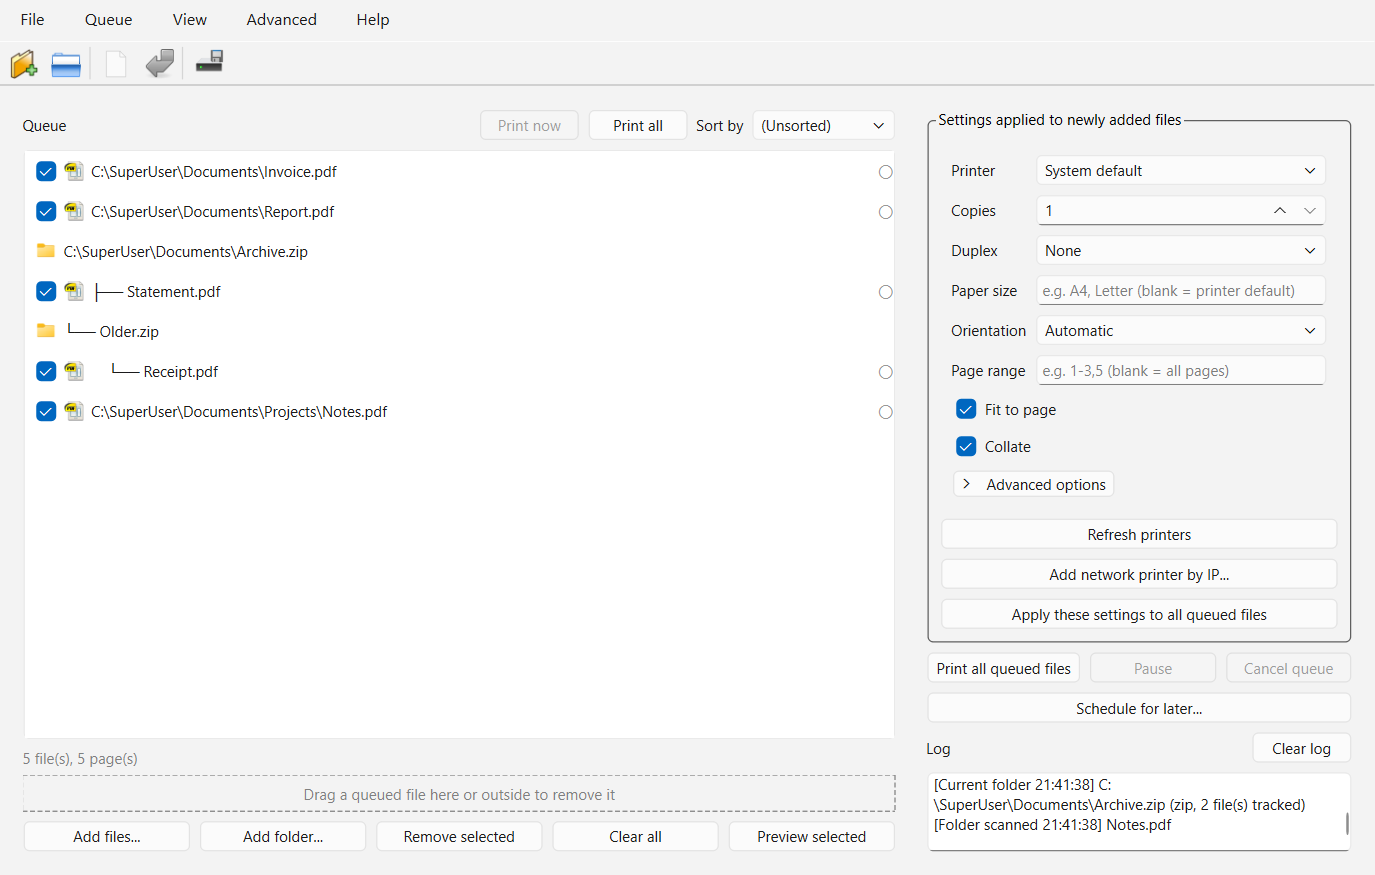
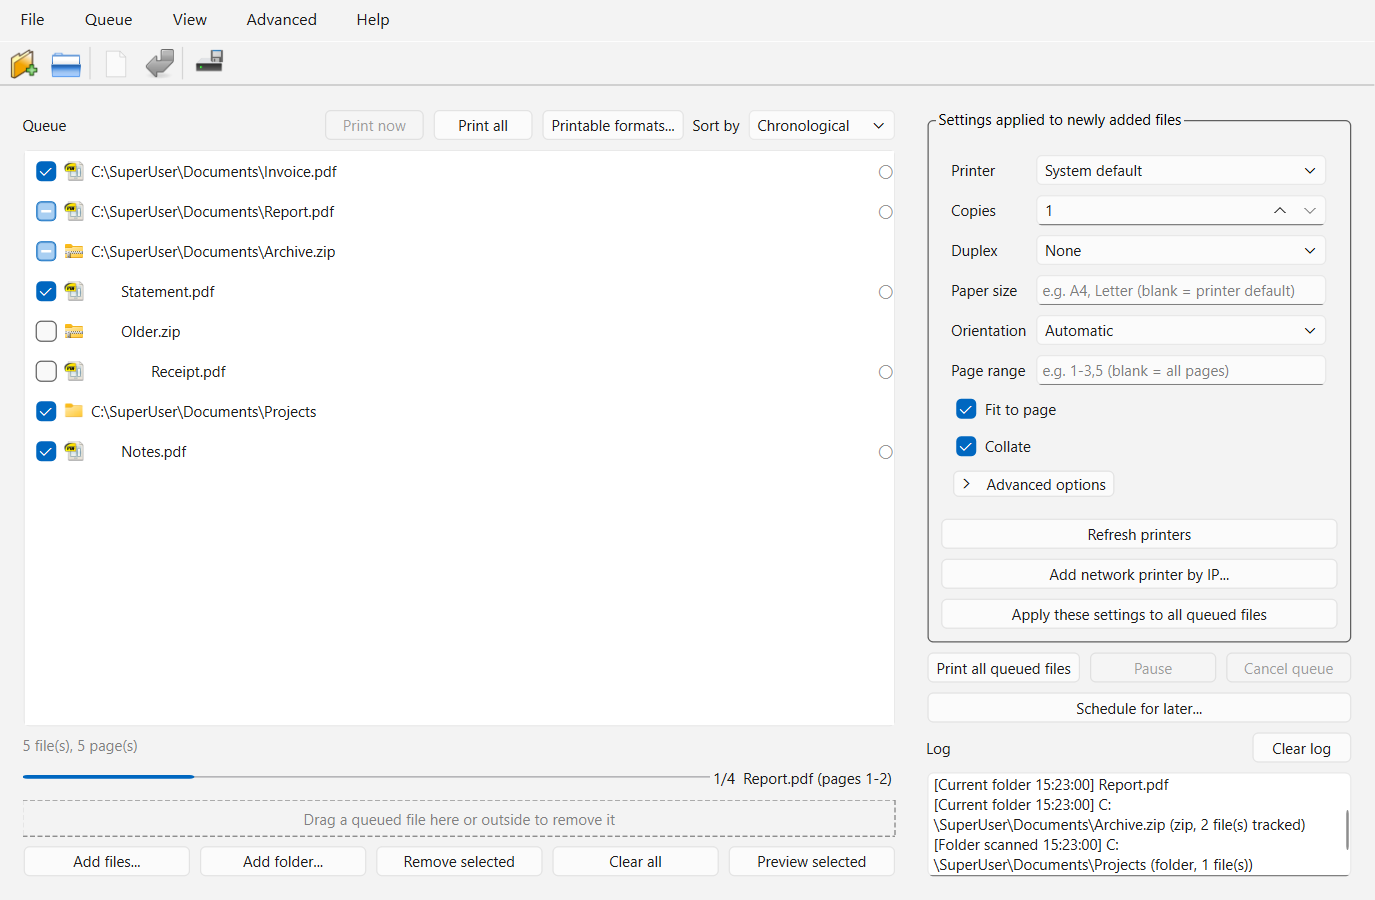
printtool 5

diff --git a/printtool/gui/app.py b/printtool/gui/app.py
@@ -26,6 +26,7 @@ from PySide6.QtWidgets import (
     QMenu,
     QMessageBox,
     QPlainTextEdit,
+    QProgressBar,
     QPushButton,
     QSpinBox,
     QStyle,
@@ -54,6 +55,12 @@ from .resources import asset_path
 from .widgets import SettingsWidget
 
 _ICON_PROVIDER = QFileIconProvider()
+_INDENT = "  "
+GROUP_HEADER_ROLE = Qt.UserRole + 10
+
+
+def _depth(text: str) -> int:
+    return (len(text) - len(text.lstrip(_INDENT[0]))) // len(_INDENT)
 
 
 class PrintWorker(QThread):
@@ -248,7 +255,7 @@ class MainWindow(QMainWindow):
         stats_row.addWidget(self.advanced_stats_label)
 
         self.sort_combo = QComboBox()
-        self.sort_combo.addItem("(Unsorted)", None)
+        self.sort_combo.addItem("Chronological", None)
         self.sort_combo.addItem("Name", "name")
         self.sort_combo.addItem("Size", "size")
         self.sort_combo.addItem("Pages", "pages")
@@ -267,6 +274,9 @@ class MainWindow(QMainWindow):
         queue_header.addStretch()
         queue_header.addWidget(self.print_now_btn)
         queue_header.addWidget(self.print_all_btn)
+        formats_btn = QPushButton("Printable formats...")
+        formats_btn.clicked.connect(self._edit_file_types)
+        queue_header.addWidget(formats_btn)
         queue_header.addWidget(QLabel("Sort by"))
         queue_header.addWidget(self.sort_combo)
 
@@ -274,6 +284,10 @@ class MainWindow(QMainWindow):
         left.addLayout(queue_header)
         left.addWidget(self.file_list)
         left.addLayout(stats_row)
+        self.progress_bar = QProgressBar()
+        self.progress_bar.setTextVisible(True)
+        self.progress_bar.hide()
+        left.addWidget(self.progress_bar)
         left.addWidget(self.remove_zone)
         left.addLayout(file_buttons)
 
@@ -491,6 +505,8 @@ class MainWindow(QMainWindow):
         self.preview_action.setEnabled(False)
         self.print_now_action.setEnabled(False)
         self.file_list.itemSelectionChanged.connect(self._update_selection_actions)
+        self.file_list.itemChanged.connect(self._on_item_changed)
+        self._syncing_checks = False
 
     def _open_settings_file(self) -> None:
         preview.open_in_default_viewer(ensure_settings_file())
@@ -597,6 +613,9 @@ class MainWindow(QMainWindow):
             total = len(jobs)
             elapsed = (datetime.now() - self._print_run_started).total_seconds()
             pct = 100 * len(done) / total if total else 0
+            self.progress_bar.setRange(0, total)
+            self.progress_bar.setValue(len(done))
+            self.progress_bar.show()
             text = f"Printing: {len(done)}/{total} done ({pct:.0f}%)"
             if done and len(done) < total:
                 remaining = total - len(done)
@@ -656,17 +675,15 @@ class MainWindow(QMainWindow):
             self._log_timestamped(label, f"{zip_path.name} - no printable files found in zip")
             return
 
-        zip_header = QListWidgetItem(self.style().standardIcon(QStyle.SP_DirIcon), str(zip_path))
-        zip_header.setData(ZIP_GROUP_ROLE, True)
-        self.file_list.addItem(zip_header)
+        zip_icon = _ICON_PROVIDER.icon(QFileInfo(str(zip_path)))
+        zip_header = self._make_group_header(zip_icon, str(zip_path))
         group_rows = [zip_header]
 
         global_settings = self.settings_widget.to_settings()
         leaf_count = 0
         for prefix, node in self._tree_lines(tree):
             if node.is_zip:
-                item = QListWidgetItem(self.style().standardIcon(QStyle.SP_DirIcon), prefix + node.name)
-                self.file_list.addItem(item)
+                item = self._make_group_header(zip_icon, prefix + node.name, nested=True)
                 group_rows.append(item)
                 continue
             leaf_count += 1
@@ -686,19 +703,25 @@ class MainWindow(QMainWindow):
         self._update_queue_stats()
 
     @staticmethod
-    def _tree_lines(node, prefix: str = ""):
-        """[(connector_prefix, child_node), ...] depth-first, `tree`-style:
-        the last sibling at each level gets "└── " and a blank continuation
-        below it; every other sibling gets "├── " and a "│   " continuation."""
+    def _tree_lines(node, depth: int = 1):
+        """[(indent, child_node), ...] depth-first; each level is indented
+        a little further instead of drawing `tree`-style connector lines."""
         lines = []
-        for i, child in enumerate(node.children):
-            is_last = i == len(node.children) - 1
-            connector = "└── " if is_last else "├── "
-            lines.append((prefix + connector, child))
+        for child in node.children:
+            lines.append((_INDENT * depth, child))
             if child.is_zip:
-                continuation = "    " if is_last else "│   "
-                lines.extend(MainWindow._tree_lines(child, prefix + continuation))
+                lines.extend(MainWindow._tree_lines(child, depth + 1))
         return lines
+
+    def _make_group_header(self, icon, text: str, *, nested: bool = False) -> QListWidgetItem:
+        """A zip or folder row: checkable, standing for all files under it."""
+        item = QListWidgetItem(icon, text)
+        item.setFlags(item.flags() | Qt.ItemIsUserCheckable)
+        item.setCheckState(Qt.Checked)
+        item.setData(ZIP_GROUP_ROLE, not nested)
+        item.setData(GROUP_HEADER_ROLE, True)
+        self.file_list.addItem(item)
+        return item
 
     def _on_files_dropped(self, paths: list[Path]) -> None:
         self._add_paths(paths, label="File dragged")
@@ -723,7 +746,28 @@ class MainWindow(QMainWindow):
         if not files:
             self._log_timestamped("Folder scanned", f"{folder} - no printable files found")
             return
-        self._add_paths(files, label="Folder scanned")
+        self._add_folder_group(folder, files, label="Folder scanned")
+
+    def _add_folder_group(self, folder: Path, files: list[Path], *, label: str) -> None:
+        """A folder row (folder icon) with its chosen files indented under it."""
+        header = self._make_group_header(self.style().standardIcon(QStyle.SP_DirIcon), str(folder))
+        rows = [header]
+        global_settings = self.settings_widget.to_settings()
+        for path in files:
+            job = PrintJob(path=path, settings=global_settings.clone())
+            self.jobs[job.job_id] = job
+            item = self._make_item(job)
+            try:
+                rel = path.relative_to(folder)
+            except ValueError:
+                rel = Path(path.name)
+            item.setText(_INDENT * len(rel.parts) + str(rel))
+            self.file_list.addItem(item)
+            rows.append(item)
+        for item in rows:
+            item.setData(ZIP_GROUP_HEADER_ROLE, header)
+        self._log_timestamped(label, f"{folder} (folder, {len(files)} file(s))")
+        self._update_queue_stats()
 
     def _sort_queue(self) -> None:
         key = self.sort_combo.currentData()
@@ -892,12 +936,14 @@ class MainWindow(QMainWindow):
                 if job is not None:
                     job.settings = new_settings.clone()
             self.log.appendPlainText(f"Updated settings for {len(items)} file(s).")
+            self._refresh_check_marks()
 
     def _apply_global_to_all(self) -> None:
         settings = self.settings_widget.to_settings()
         for job in self.jobs.values():
             job.settings = settings.clone()
         self.log.appendPlainText(f"Applied current settings to all {len(self.jobs)} queued file(s).")
+        self._refresh_check_marks()
 
     def _refresh_printers(self) -> None:
         printers = backend.list_printers()
@@ -920,6 +966,60 @@ class MainWindow(QMainWindow):
                     self.log.appendPlainText(f"Could not open {job.path.name} from zip for preview: {exc}")
                     continue
             preview.open_in_default_viewer(path)
+
+    def _on_item_changed(self, item: QListWidgetItem) -> None:
+        """Keeps checkboxes meaningful: a group row toggles all its files, a
+        group shows light blue when only some are checked, and a file with
+        a page range shows light blue since not all of its pages print."""
+        if self._syncing_checks:
+            return
+        self._syncing_checks = True
+        try:
+            if item.data(GROUP_HEADER_ROLE):
+                on = item.checkState() != Qt.Unchecked
+                for row in self._subtree(item):
+                    row.setCheckState(Qt.Checked if on else Qt.Unchecked)
+            self._refresh_check_marks()
+        finally:
+            self._syncing_checks = False
+
+    def _refresh_check_marks(self) -> None:
+        was = self._syncing_checks
+        self._syncing_checks = True
+        try:
+            for row in range(self.file_list.count()):
+                item = self.file_list.item(row)
+                job = self.jobs.get(item.data(JOB_ID_ROLE))
+                if job is not None and item.checkState() != Qt.Unchecked:
+                    item.setCheckState(Qt.PartiallyChecked if job.settings.page_range else Qt.Checked)
+            # Deepest groups first, so an outer group sees its inner ones settled.
+            for row in reversed(range(self.file_list.count())):
+                item = self.file_list.item(row)
+                if not item.data(GROUP_HEADER_ROLE):
+                    continue
+                leaves = [r for r in self._subtree(item) if r.data(JOB_ID_ROLE) in self.jobs]
+                states = {r.checkState() for r in leaves}
+                if states == {Qt.Unchecked}:
+                    item.setCheckState(Qt.Unchecked)
+                elif states == {Qt.Checked}:
+                    item.setCheckState(Qt.Checked)
+                elif leaves:
+                    item.setCheckState(Qt.PartiallyChecked)
+        finally:
+            self._syncing_checks = was
+
+    def _subtree(self, header: QListWidgetItem) -> list[QListWidgetItem]:
+        """Rows indented under `header`, up to its next sibling group row."""
+        rows = self._group_rows(header.data(ZIP_GROUP_HEADER_ROLE) or header)
+        if header not in rows:  # still being built
+            return []
+        depth = _depth(header.text())
+        out = []
+        for row in rows[rows.index(header) + 1 :]:
+            if row.data(GROUP_HEADER_ROLE) and _depth(row.text()) <= depth:
+                break
+            out.append(row)
+        return out
 
     def _update_selection_actions(self) -> None:
         has_selection = bool(self.file_list.selectedItems())
@@ -1059,7 +1159,7 @@ class MainWindow(QMainWindow):
         for row in range(self.file_list.count()):
             item = self.file_list.item(row)
             job = self.jobs.get(item.data(JOB_ID_ROLE))
-            if job is not None and item.checkState() == Qt.Checked:
+            if job is not None and item.checkState() != Qt.Unchecked:
                 ordered_jobs.append(job)
         self._start_worker(ordered_jobs)
 
@@ -1134,6 +1234,9 @@ class MainWindow(QMainWindow):
             job.status = JobStatus(status_value)
             job.message = message
         self._refresh_item_text(job_id)
+        if job is not None and status_value == JobStatus.PRINTING.value:
+            pages_note = f"pages {job.settings.page_range}" if job.settings.page_range else "all pages"
+            self.progress_bar.setFormat(f"%v/%m  {job.path.name} ({pages_note})")
         if job is not None and status_value != JobStatus.PRINTING.value:
             self.log.appendPlainText(
                 f"[{status_value.upper()}] {job.path}{(' - ' + message) if message else ''}"
@@ -1142,6 +1245,7 @@ class MainWindow(QMainWindow):
 
     def _on_all_done(self) -> None:
         self.log.appendPlainText("Done.")
+        self.progress_bar.hide()
         self.print_btn.setEnabled(True)
         self.pause_btn.setEnabled(False)
         self.cancel_btn.setEnabled(False)

diff --git a/printtool/gui/queue_list.py b/printtool/gui/queue_list.py
@@ -8,8 +8,16 @@ from __future__ import annotations
 from pathlib import Path
 
 from PySide6.QtCore import QMimeData, QRectF, Qt, Signal
-from PySide6.QtGui import QColor, QCursor, QDrag, QFont
-from PySide6.QtWidgets import QAbstractItemView, QLabel, QListWidget, QStyledItemDelegate
+from PySide6.QtGui import QColor, QCursor, QDrag, QFont, QPainter, QPen
+from PySide6.QtWidgets import (
+    QAbstractItemView,
+    QApplication,
+    QLabel,
+    QListWidget,
+    QStyle,
+    QStyledItemDelegate,
+    QStyleOptionViewItem,
+)
 
 JOB_ID_ROLE = Qt.UserRole
 STATUS_GLYPH_ROLE = Qt.UserRole + 1
@@ -44,6 +52,21 @@ class StatusGlyphDelegate(QStyledItemDelegate):
 
     def paint(self, painter, option, index) -> None:
         super().paint(painter, option, index)
+        if index.data(Qt.CheckStateRole) in (Qt.PartiallyChecked, Qt.PartiallyChecked.value):
+            # Light blue box: only some pages, or only some files of a group.
+            opt = QStyleOptionViewItem(option)
+            self.initStyleOption(opt, index)
+            style = opt.widget.style() if opt.widget else QApplication.style()
+            box = QRectF(style.subElementRect(QStyle.SE_ItemViewItemCheckIndicator, opt, opt.widget)).adjusted(1, 1, -1, -1)
+            painter.save()
+            painter.setRenderHint(QPainter.Antialiasing)
+            painter.setPen(QColor("#5b9bd5"))
+            painter.setBrush(QColor("#a9cff2"))
+            painter.drawRoundedRect(box, 3, 3)
+            painter.setPen(QPen(QColor("white"), 2))
+            mid = box.center().y()
+            painter.drawLine(int(box.left() + 4), int(mid), int(box.right() - 4), int(mid))
+            painter.restore()
         glyph_info = index.data(STATUS_GLYPH_ROLE)
         if not glyph_info:
             return

diff --git a/tests/test_queue_groups.py b/tests/test_queue_groups.py
@@ -1,0 +1,48 @@
+import io
+import sys
+import zipfile
+
+import pytest
+
+pytest.importorskip("PySide6.QtWidgets")
+from PySide6.QtCore import Qt
+from PySide6.QtWidgets import QApplication
+
+
+@pytest.fixture(scope="module")
+def app():
+    return QApplication.instance() or QApplication(sys.argv)
+
+
+def _pdf_bytes() -> bytes:
+    from pypdf import PdfWriter
+
+    buf = io.BytesIO()
+    w = PdfWriter()
+    w.add_blank_page(width=200, height=200)
+    w.write(buf)
+    return buf.getvalue()
+
+
+def test_zip_group_checkboxes(app, tmp_path, monkeypatch):
+    inner = io.BytesIO()
+    with zipfile.ZipFile(inner, "w") as z:
+        z.writestr("b.pdf", _pdf_bytes())
+    with zipfile.ZipFile(tmp_path / "outer.zip", "w") as z:
+        z.writestr("a.pdf", _pdf_bytes())
+        z.writestr("inner.zip", inner.getvalue())
+    monkeypatch.chdir(tmp_path)
+
+    from printtool.gui.app import MainWindow
+
+    w = MainWindow()
+    rows = {w.file_list.item(r).text().strip(): w.file_list.item(r) for r in range(w.file_list.count())}
+    outer = rows[str(tmp_path / "outer.zip")]
+
+    rows["b.pdf"].setCheckState(Qt.Unchecked)
+    assert rows["inner.zip"].checkState() == Qt.Unchecked
+    assert outer.checkState() == Qt.PartiallyChecked
+
+    outer.setCheckState(Qt.Checked)
+    assert rows["b.pdf"].checkState() == Qt.Checked
+    assert rows["a.pdf"].checkState() == Qt.Checked

diff --git a/README.md b/README.md
@@ -8,6 +8,8 @@ Prints PDFs straight to paper, one file or a whole batch, without opening a view
 
 - One set of settings (printer, copies, duplex, paper size, page range, fit to page) applies to a whole batch; any queued file can override it.
 - Files, folders and zips (nested zips included) can be added by button or by drag and drop; zip members are extracted only when printed.
+- A folder or zip row has its own checkbox; light blue marks a group printed only in part, or a file with a page range.
+- A progress bar under the queue shows the file printing now and its pages.
 - A queue can be paused, reordered, retried, or handed to the OS scheduler to print later.
 - A network printer can be added by IP address.
 
@@ -25,7 +27,7 @@ pip install -e ".[gui]"
 python scripts/fetch_sumatra.py   # Windows only, once
 ```
 
-Defaults live in a hand-editable `settings.yaml` (`printtool settings-path` prints its location). The GUI's View → File types window chooses which formats count as printable; only PDF is on by default.
+Defaults live in a hand-editable `settings.yaml` (`printtool settings-path` prints its location). The "Printable formats..." button above the queue chooses which formats count as printable; only PDF is on by default.
 
 ## Usage
 

diff --git a/CHANGELOG.md b/CHANGELOG.md
@@ -1,6 +1,10 @@
 # Changelog
 
 ## Unreleased
+- Queue: Zip icon for zips, folder rows for scanned folders, plain indentation instead of tree lines.
+- Group checkboxes follow their files; light blue for partly printed groups or files with a page range.
+- "Chronological" replaces "(Unsorted)"; "Printable formats..." button above the queue.
+- Progress bar with the current file and its pages.
 - View → File types: Tick which formats count as printable (only PDF by default).
 - Faster startup (printers listed without PowerShell).
 - Advanced menu is grouped into submenus: Blank page around each file, date/time stamp (PDF only), interleaved copies (1,2,1,2).
